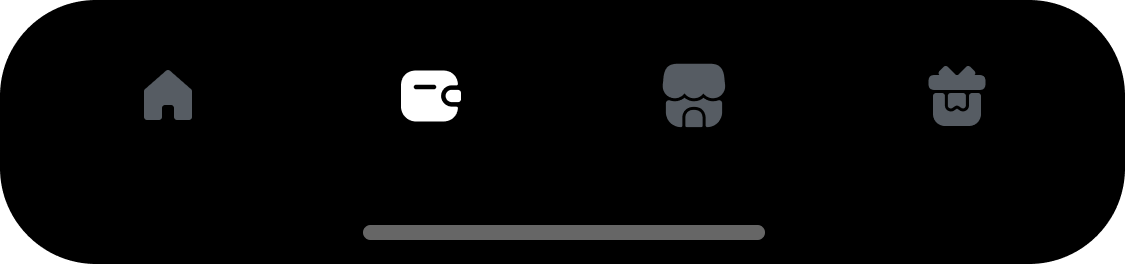
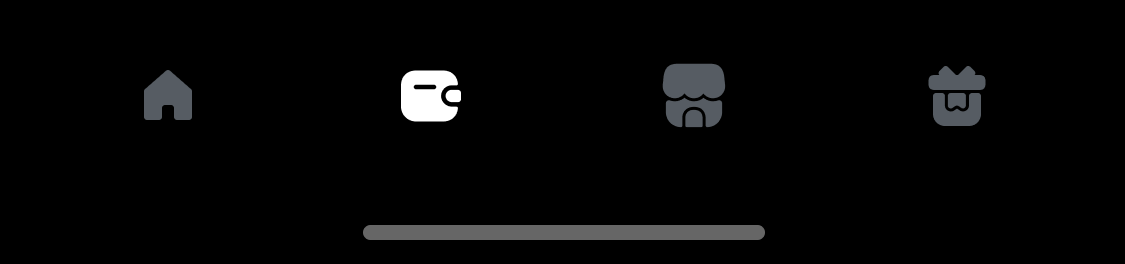
b 수정

diff --git a/b-my.html b/b-my.html
@@ -10,15 +10,15 @@
     <style>
         *, :after, :before {background-repeat:no-repeat;box-sizing:border-box}
         html{font-size:62.5%;-webkit-text-size-adjust:100%;-webkit-overflow-scrolling:touch;-ms-overflow-style:none;scrollbar-width:none;}
-        body{position:relative;height:100vh;font-size:1.6rem; font-family:'NotoSansCJKkr', sans-serif; line-height:1.5;-webkit-font-smoothing:antialiased;word-wrap: break-word;word-break:keep-all;-webkit-overflow-scrolling:touch;background:#000;color:#333;margin:0;padding:0;border:0;background:#000}
-        .container{position:relative;width:375px;top:50%;left:50%;transform:translate(-50%, -50%);margin:0;height:812px;min-height:812px;overflow-y:scroll;overflow-x:hidden;-ms-overflow-style:none;scrollbar-width:none;padding:100px 0 88px;background:#000;box-sizing:border-box;overflow:hidden}
+        body{position:relative;height:100vh;font-size:1.6rem; font-family:'NotoSansCJKkr', sans-serif; line-height:1.5;-webkit-font-smoothing:antialiased;word-wrap: break-word;word-break:keep-all;-webkit-overflow-scrolling:touch;color:#333;margin:0;padding:0;border:0;background:#343A3F}
+        .container{position:relative;width:375px;top:50%;left:50%;transform:translate(-50%, -50%);margin:0;height:812px;min-height:812px;overflow-y:scroll;overflow-x:hidden;-ms-overflow-style:none;scrollbar-width:none;padding:100px 0 88px;background:#000;box-sizing:border-box;overflow:hidden;border-radius:32px}
         .container::-webkit-scrollbar{display:none;}
-        .cont {height:calc(812px - 188px);overflow-y:scroll;}
+        .cont {height:calc(812px - 100px);padding-bottom:88px;overflow-y:scroll;}
         .cont::-webkit-scrollbar{display:none;}
         .header {position:fixed;top:0;left:0;right:0;height:100px;}
         .header img {width:100%}
-        .bottom {position:fixed;bottom:0;left:0;right:0;height:88px;}
-        .bottom img {width:100%;line-height:0;vertical-align:bottom}
+        .bottom {position:fixed;bottom:0;left:0;right:0;height:88px;border-top-left-radius: 32px;border-top-right-radius: 32px}
+        .bottom img {width:100%;line-height:0;vertical-align:bottom;border-top-left-radius:32px;border-top-right-radius:32px;}
         .img_wrap {position:relative}
         .img_wrap img {display:block;width:100%}
         .golink1 {position:absolute;bottom:27px;left:20px;width:70px;height:60px;}

diff --git a/b-around-en.html b/b-around-en.html
@@ -10,15 +10,15 @@
     <style>
         *, :after, :before {background-repeat:no-repeat;box-sizing:border-box}
         html{font-size:62.5%;-webkit-text-size-adjust:100%;-webkit-overflow-scrolling:touch;-ms-overflow-style:none;scrollbar-width:none;}
-        body{position:relative;height:100vh;font-size:1.6rem; font-family:'NotoSansCJKkr', sans-serif; line-height:1.5;-webkit-font-smoothing:antialiased;word-wrap: break-word;word-break:keep-all;-webkit-overflow-scrolling:touch;background:#000;color:#333;margin:0;padding:0;border:0;background:#000}
-        .container{position:relative;width:375px;top:50%;left:50%;transform:translate(-50%, -50%);margin:0;height:812px;min-height:812px;overflow-y:scroll;overflow-x:hidden;-ms-overflow-style:none;scrollbar-width:none;padding:100px 0 88px;background:#000;box-sizing:border-box;overflow:hidden}
+        body{position:relative;height:100vh;font-size:1.6rem; font-family:'NotoSansCJKkr', sans-serif; line-height:1.5;-webkit-font-smoothing:antialiased;word-wrap: break-word;word-break:keep-all;-webkit-overflow-scrolling:touch;color:#333;margin:0;padding:0;border:0;background:#343A3F}
+        .container{position:relative;width:375px;top:50%;left:50%;transform:translate(-50%, -50%);margin:0;height:812px;min-height:812px;overflow-y:scroll;overflow-x:hidden;-ms-overflow-style:none;scrollbar-width:none;padding:100px 0 88px;background:#000;box-sizing:border-box;overflow:hidden;border-radius:32px}
         .container::-webkit-scrollbar{display:none;}
-        .cont {height:calc(812px - 188px);overflow-y:scroll;}
+        .cont {height:calc(812px - 100px);padding-bottom:88px;overflow-y:scroll;}
         .cont::-webkit-scrollbar{display:none;}
         .header {position:fixed;top:0;left:0;right:0;height:100px;}
         .header img {width:100%}
         .bottom {position:fixed;bottom:0;left:0;right:0;height:88px;}
-        .bottom img {width:100%;line-height:0;vertical-align:bottom}
+        .bottom img {width:100%;line-height:0;vertical-align:bottom;border-top-left-radius:32px;border-top-right-radius:32px;}
         .img_wrap {position:relative}
         .img_wrap img {display:block;width:100%}
         .golink1 {position:absolute;bottom:27px;left:20px;width:70px;height:60px;}

diff --git a/b-around.html b/b-around.html
@@ -10,15 +10,15 @@
     <style>
         *, :after, :before {background-repeat:no-repeat;box-sizing:border-box}
         html{font-size:62.5%;-webkit-text-size-adjust:100%;-webkit-overflow-scrolling:touch;-ms-overflow-style:none;scrollbar-width:none;}
-        body{position:relative;height:100vh;font-size:1.6rem; font-family:'NotoSansCJKkr', sans-serif; line-height:1.5;-webkit-font-smoothing:antialiased;word-wrap: break-word;word-break:keep-all;-webkit-overflow-scrolling:touch;background:#000;color:#333;margin:0;padding:0;border:0;background:#000}
-        .container{position:relative;width:375px;top:50%;left:50%;transform:translate(-50%, -50%);margin:0;height:812px;min-height:812px;overflow-y:scroll;overflow-x:hidden;-ms-overflow-style:none;scrollbar-width:none;padding:100px 0 88px;background:#000;box-sizing:border-box;overflow:hidden}
+        body{position:relative;height:100vh;font-size:1.6rem; font-family:'NotoSansCJKkr', sans-serif; line-height:1.5;-webkit-font-smoothing:antialiased;word-wrap: break-word;word-break:keep-all;-webkit-overflow-scrolling:touch;color:#333;margin:0;padding:0;border:0;background:#343A3F}
+        .container{position:relative;width:375px;top:50%;left:50%;transform:translate(-50%, -50%);margin:0;height:812px;min-height:812px;overflow-y:scroll;overflow-x:hidden;-ms-overflow-style:none;scrollbar-width:none;padding:100px 0 88px;background:#000;box-sizing:border-box;overflow:hidden;border-radius:32px}
         .container::-webkit-scrollbar{display:none;}
-        .cont {height:calc(812px - 188px);overflow-y:scroll;}
+        .cont {height:calc(812px - 100px);padding-bottom:88px;overflow-y:scroll;}
         .cont::-webkit-scrollbar{display:none;}
         .header {position:fixed;top:0;left:0;right:0;height:100px;}
         .header img {width:100%}
         .bottom {position:fixed;bottom:0;left:0;right:0;height:88px;}
-        .bottom img {width:100%;line-height:0;vertical-align:bottom}
+        .bottom img {width:100%;line-height:0;vertical-align:bottom;border-top-left-radius:32px;border-top-right-radius:32px;}
         .img_wrap {position:relative}
         .img_wrap img {display:block;width:100%}
         .golink1 {position:absolute;bottom:27px;left:20px;width:70px;height:60px;}

diff --git a/b-my-en.html b/b-my-en.html
@@ -10,15 +10,15 @@
     <style>
         *, :after, :before {background-repeat:no-repeat;box-sizing:border-box}
         html{font-size:62.5%;-webkit-text-size-adjust:100%;-webkit-overflow-scrolling:touch;-ms-overflow-style:none;scrollbar-width:none;}
-        body{position:relative;height:100vh;font-size:1.6rem; font-family:'NotoSansCJKkr', sans-serif; line-height:1.5;-webkit-font-smoothing:antialiased;word-wrap: break-word;word-break:keep-all;-webkit-overflow-scrolling:touch;background:#000;color:#333;margin:0;padding:0;border:0;background:#000}
-        .container{position:relative;width:375px;top:50%;left:50%;transform:translate(-50%, -50%);margin:0;height:812px;min-height:812px;overflow-y:scroll;overflow-x:hidden;-ms-overflow-style:none;scrollbar-width:none;padding:100px 0 88px;background:#000;box-sizing:border-box;overflow:hidden}
+        body{position:relative;height:100vh;font-size:1.6rem; font-family:'NotoSansCJKkr', sans-serif; line-height:1.5;-webkit-font-smoothing:antialiased;word-wrap: break-word;word-break:keep-all;-webkit-overflow-scrolling:touch;color:#333;margin:0;padding:0;border:0;background:#343A3F}
+        .container{position:relative;width:375px;top:50%;left:50%;transform:translate(-50%, -50%);margin:0;height:812px;min-height:812px;overflow-y:scroll;overflow-x:hidden;-ms-overflow-style:none;scrollbar-width:none;padding:100px 0 88px;background:#000;box-sizing:border-box;overflow:hidden;border-radius:32px}
         .container::-webkit-scrollbar{display:none;}
-        .cont {height:calc(812px - 188px);overflow-y:scroll;}
+        .cont {height:calc(812px - 100px);padding-bottom:88px;overflow-y:scroll;}
         .cont::-webkit-scrollbar{display:none;}
         .header {position:fixed;top:0;left:0;right:0;height:100px;}
         .header img {width:100%}
         .bottom {position:fixed;bottom:0;left:0;right:0;height:88px;}
-        .bottom img {width:100%;line-height:0;vertical-align:bottom}
+        .bottom img {width:100%;line-height:0;vertical-align:bottom;border-top-left-radius:32px;border-top-right-radius:32px;}
         .img_wrap {position:relative}
         .img_wrap img {display:block;width:100%}
         .golink1 {position:absolute;bottom:27px;left:20px;width:70px;height:60px;}

diff --git a/b-wallet-en.html b/b-wallet-en.html
@@ -10,13 +10,13 @@
     <style>
         *, :after, :before {background-repeat:no-repeat;box-sizing:border-box}
         html{font-size:62.5%;-webkit-text-size-adjust:100%;-webkit-overflow-scrolling:touch;-ms-overflow-style:none;scrollbar-width:none;}
-        body{position:relative;height:100vh;font-size:1.6rem; font-family:'NotoSansCJKkr', sans-serif; line-height:1.5;-webkit-font-smoothing:antialiased;word-wrap: break-word;word-break:keep-all;-webkit-overflow-scrolling:touch;background:#000;color:#333;margin:0;padding:0;border:0;background:#000}
-        .container{position:relative;width:375px;top:50%;left:50%;transform:translate(-50%, -50%);margin:0;height:812px;min-height:812px;overflow-y:scroll;overflow-x:hidden;-ms-overflow-style:none;scrollbar-width:none;padding:100px 0 88px;background:#000;box-sizing:border-box}
+        body{position:relative;height:100vh;font-size:1.6rem; font-family:'NotoSansCJKkr', sans-serif; line-height:1.5;-webkit-font-smoothing:antialiased;word-wrap: break-word;word-break:keep-all;-webkit-overflow-scrolling:touch;color:#333;margin:0;padding:0;border:0;background:#343A3F}
+        .container{position:relative;width:375px;top:50%;left:50%;transform:translate(-50%, -50%);margin:0;height:812px;min-height:812px;overflow-y:scroll;overflow-x:hidden;-ms-overflow-style:none;scrollbar-width:none;padding:100px 0 88px;background:#000;box-sizing:border-box;overflow:hidden;border-radius:32px}
         .container::-webkit-scrollbar{display:none;}
         .header {position:fixed;top:0;left:0;right:0;height:100px;}
         .header img {width:100%}
         .bottom {position:fixed;bottom:0;left:0;right:0;height:88px;}
-        .bottom img {width:100%;line-height:0;vertical-align:bottom}
+        .bottom img {width:100%;line-height:0;vertical-align:bottom;border-top-left-radius:32px;border-top-right-radius:32px;}
         .img_wrap {position:relative}
         .img_wrap img {display:block;width:100%}
         .swiper {margin-top:48px;padding-bottom:104px}

diff --git a/b-wallet.html b/b-wallet.html
@@ -10,13 +10,13 @@
     <style>
         *, :after, :before {background-repeat:no-repeat;box-sizing:border-box}
         html{font-size:62.5%;-webkit-text-size-adjust:100%;-webkit-overflow-scrolling:touch;-ms-overflow-style:none;scrollbar-width:none;}
-        body{position:relative;height:100vh;font-size:1.6rem; font-family:'NotoSansCJKkr', sans-serif; line-height:1.5;-webkit-font-smoothing:antialiased;word-wrap: break-word;word-break:keep-all;-webkit-overflow-scrolling:touch;background:#000;color:#333;margin:0;padding:0;border:0;background:#000}
-        .container{position:relative;width:375px;top:50%;left:50%;transform:translate(-50%, -50%);margin:0;height:812px;min-height:812px;overflow-y:scroll;overflow-x:hidden;-ms-overflow-style:none;scrollbar-width:none;padding:100px 0 88px;background:#000;box-sizing:border-box}
+        body{position:relative;height:100vh;font-size:1.6rem; font-family:'NotoSansCJKkr', sans-serif; line-height:1.5;-webkit-font-smoothing:antialiased;word-wrap: break-word;word-break:keep-all;-webkit-overflow-scrolling:touch;color:#333;margin:0;padding:0;border:0;background:#343A3F}
+        .container{position:relative;width:375px;top:50%;left:50%;transform:translate(-50%, -50%);margin:0;height:812px;min-height:812px;overflow-y:scroll;overflow-x:hidden;-ms-overflow-style:none;scrollbar-width:none;padding:100px 0 88px;background:#000;box-sizing:border-box;overflow:hidden;border-radius:32px}
         .container::-webkit-scrollbar{display:none;}
         .header {position:fixed;top:0;left:0;right:0;height:100px;}
         .header img {width:100%}
         .bottom {position:fixed;bottom:0;left:0;right:0;height:88px;}
-        .bottom img {width:100%;line-height:0;vertical-align:bottom}
+        .bottom img {width:100%;line-height:0;vertical-align:bottom;border-top-left-radius:32px;border-top-right-radius:32px;}
         .img_wrap {position:relative}
         .img_wrap img {display:block;width:100%}
         .swiper {margin-top:48px;padding-bottom:104px}

diff --git a/b-pop1-en.html b/b-pop1-en.html
@@ -10,8 +10,8 @@
     <style>
         *, :after, :before {background-repeat:no-repeat;box-sizing:border-box}
         html{font-size:62.5%;-webkit-text-size-adjust:100%;-webkit-overflow-scrolling:touch;-ms-overflow-style:none;scrollbar-width:none;}
-        body{position:relative;height:100vh;font-size:1.6rem; font-family:'NotoSansCJKkr', sans-serif; line-height:1.5;-webkit-font-smoothing:antialiased;word-wrap: break-word;word-break:keep-all;-webkit-overflow-scrolling:touch;background:#000;color:#333;margin:0;padding:0;border:0;background:#000}
-        .container{position:relative;width:375px;top:50%;left:50%;transform:translate(-50%, -50%);margin:0;height:812px;min-height:812px;overflow-y:scroll;overflow-x:hidden;-ms-overflow-style:none;scrollbar-width:none;background:#000;box-sizing:border-box;overflow:hidden}
+        body{position:relative;height:100vh;font-size:1.6rem; font-family:'NotoSansCJKkr', sans-serif; line-height:1.5;-webkit-font-smoothing:antialiased;word-wrap: break-word;word-break:keep-all;-webkit-overflow-scrolling:touch;color:#333;margin:0;padding:0;border:0;background:#343A3F}
+        .container{position:relative;width:375px;top:50%;left:50%;transform:translate(-50%, -50%);margin:0;height:812px;min-height:812px;overflow-y:scroll;overflow-x:hidden;-ms-overflow-style:none;scrollbar-width:none;background:#000;box-sizing:border-box;overflow:hidden;border-radius:32px}
         .container::-webkit-scrollbar{display:none;}
         .container img {width:100%;}
         .close {position:absolute;bottom:28px;left:50%;transform:translateX(-50%);width:55px;height:57px}

diff --git a/b-pop1.html b/b-pop1.html
@@ -10,8 +10,8 @@
     <style>
         *, :after, :before {background-repeat:no-repeat;box-sizing:border-box}
         html{font-size:62.5%;-webkit-text-size-adjust:100%;-webkit-overflow-scrolling:touch;-ms-overflow-style:none;scrollbar-width:none;}
-        body{position:relative;height:100vh;font-size:1.6rem; font-family:'NotoSansCJKkr', sans-serif; line-height:1.5;-webkit-font-smoothing:antialiased;word-wrap: break-word;word-break:keep-all;-webkit-overflow-scrolling:touch;background:#000;color:#333;margin:0;padding:0;border:0;background:#000}
-        .container{position:relative;width:375px;top:50%;left:50%;transform:translate(-50%, -50%);margin:0;height:812px;min-height:812px;overflow-y:scroll;overflow-x:hidden;-ms-overflow-style:none;scrollbar-width:none;background:#000;box-sizing:border-box;overflow:hidden}
+        body{position:relative;height:100vh;font-size:1.6rem; font-family:'NotoSansCJKkr', sans-serif; line-height:1.5;-webkit-font-smoothing:antialiased;word-wrap: break-word;word-break:keep-all;-webkit-overflow-scrolling:touch;color:#333;margin:0;padding:0;border:0;background:#343A3F}
+        .container{position:relative;width:375px;top:50%;left:50%;transform:translate(-50%, -50%);margin:0;height:812px;min-height:812px;overflow-y:scroll;overflow-x:hidden;-ms-overflow-style:none;scrollbar-width:none;background:#000;box-sizing:border-box;overflow:hidden;border-radius:32px}
         .container::-webkit-scrollbar{display:none;}
         .container img {width:100%;}
         .close {position:absolute;bottom:28px;left:50%;transform:translateX(-50%);width:55px;height:57px}

diff --git a/b-pop2-en.html b/b-pop2-en.html
@@ -10,8 +10,8 @@
     <style>
         *, :after, :before {background-repeat:no-repeat;box-sizing:border-box}
         html{font-size:62.5%;-webkit-text-size-adjust:100%;-webkit-overflow-scrolling:touch;-ms-overflow-style:none;scrollbar-width:none;}
-        body{position:relative;height:100vh;font-size:1.6rem; font-family:'NotoSansCJKkr', sans-serif; line-height:1.5;-webkit-font-smoothing:antialiased;word-wrap: break-word;word-break:keep-all;-webkit-overflow-scrolling:touch;background:#000;color:#333;margin:0;padding:0;border:0;background:#000}
-        .container{position:relative;width:375px;top:50%;left:50%;transform:translate(-50%, -50%);margin:0;height:812px;min-height:812px;overflow-y:scroll;overflow-x:hidden;-ms-overflow-style:none;scrollbar-width:none;background:#000;box-sizing:border-box;overflow:hidden}
+        body{position:relative;height:100vh;font-size:1.6rem; font-family:'NotoSansCJKkr', sans-serif; line-height:1.5;-webkit-font-smoothing:antialiased;word-wrap: break-word;word-break:keep-all;-webkit-overflow-scrolling:touch;color:#333;margin:0;padding:0;border:0;background:#343A3F}
+        .container{position:relative;width:375px;top:50%;left:50%;transform:translate(-50%, -50%);margin:0;height:812px;min-height:812px;overflow-y:scroll;overflow-x:hidden;-ms-overflow-style:none;scrollbar-width:none;background:#000;box-sizing:border-box;overflow:hidden;border-radius:32px}
         .container::-webkit-scrollbar{display:none;}
         .container img {width:100%;}
         .close {position:absolute;bottom:28px;left:50%;transform:translateX(-50%);width:55px;height:57px}

diff --git a/b-pop2.html b/b-pop2.html
@@ -10,8 +10,8 @@
     <style>
         *, :after, :before {background-repeat:no-repeat;box-sizing:border-box}
         html{font-size:62.5%;-webkit-text-size-adjust:100%;-webkit-overflow-scrolling:touch;-ms-overflow-style:none;scrollbar-width:none;}
-        body{position:relative;height:100vh;font-size:1.6rem; font-family:'NotoSansCJKkr', sans-serif; line-height:1.5;-webkit-font-smoothing:antialiased;word-wrap: break-word;word-break:keep-all;-webkit-overflow-scrolling:touch;background:#000;color:#333;margin:0;padding:0;border:0;background:#000}
-        .container{position:relative;width:375px;top:50%;left:50%;transform:translate(-50%, -50%);margin:0;height:812px;min-height:812px;overflow-y:scroll;overflow-x:hidden;-ms-overflow-style:none;scrollbar-width:none;background:#000;box-sizing:border-box;overflow:hidden}
+        body{position:relative;height:100vh;font-size:1.6rem; font-family:'NotoSansCJKkr', sans-serif; line-height:1.5;-webkit-font-smoothing:antialiased;word-wrap: break-word;word-break:keep-all;-webkit-overflow-scrolling:touch;color:#333;margin:0;padding:0;border:0;background:#343A3F}
+        .container{position:relative;width:375px;top:50%;left:50%;transform:translate(-50%, -50%);margin:0;height:812px;min-height:812px;overflow-y:scroll;overflow-x:hidden;-ms-overflow-style:none;scrollbar-width:none;background:#000;box-sizing:border-box;overflow:hidden;border-radius:32px}
         .container::-webkit-scrollbar{display:none;}
         .container img {width:100%;}
         .close {position:absolute;bottom:28px;left:50%;transform:translateX(-50%);width:55px;height:57px}
